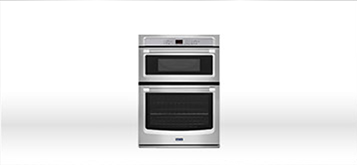
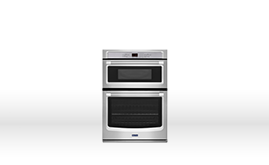
Add Answer CSS - No Preference - Wall Oven Q2

diff --git a/app/scss/structure/_app-main.scss b/app/scss/structure/_app-main.scss
@@ -475,6 +475,31 @@ div.mobile-app-nav-arrows {
 		margin-left: 10px;
 		margin-right: 10px;
 	}
+    
+    .picture-4-container {
+        width: 100% !important;   
+        
+        .answer-box {
+            width: 200px !important;
+                
+            .img-wrap {
+                width: 100% !important;
+                height: 100% !important;
+                
+                img {
+                    width: 96%;
+                    height: 96%;
+                }
+            }
+            .select-label-wrap {
+                width: 100% !important;
+                
+                .select-icon {
+                    top: 132px !important;   
+                }
+            }
+        }            
+    }
 }
 
 @media(max-width:1023px) {
@@ -724,7 +749,7 @@ div.mobile-app-nav-arrows {
 		width: 100% !important;
 	}
 
-	.picture-2-container, .picture-3-container {
+	.picture-2-container, .picture-3-container, .picture-4-container {
 		width: 100% !important;
 		margin-top: 12px !important;
 	}
@@ -756,7 +781,7 @@ div.mobile-app-nav-arrows {
 		height: 174px;
 		background-size: cover;
 
-		.label-wrap {
+        .label-wrap {
 			bottom: 13px;
 			
 			.label-text {
@@ -811,6 +836,37 @@ div.mobile-app-nav-arrows {
 	a.answer-box.radio, a.answer-box.radio-2, a.answer-box.radio-4 {
 		float: initial !important;
 	}
+    .picture-4-container {
+        width: 200px !important;   
+        
+        .answer-box {
+            width: 200px !important;
+            margin: 5px 0 !important;
+                
+            .img-wrap {
+                width: 100% !important;
+                height: 100% !important;
+                
+                img {
+                    width: 96%;
+                    height: 96%;
+                }
+            }
+            .select-label-wrap {
+                width: 100% !important;
+                
+                .select-icon {
+                    top: 132px !important;   
+                }
+            }
+        }
+        .answer-box:first-child {
+            margin-top: 0 !important;
+        }
+        .answer-box:last-child {
+            margin-bottom: 0 !important;
+        }
+    }
 }
 
 @media(max-width:750px) {
